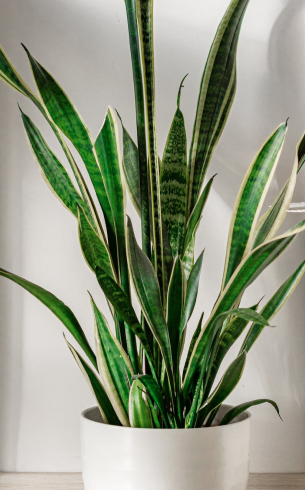
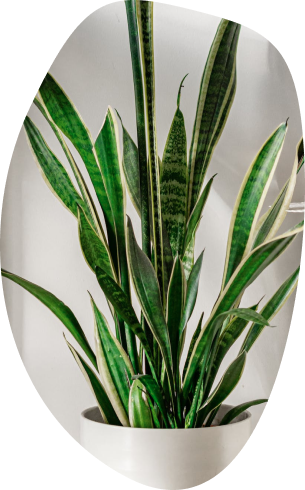
Finished hero-block

diff --git a/index.html b/index.html
@@ -135,12 +135,19 @@
                         <p class="hero__slogan">Вместе с&nbsp;нами растет жизнь</p>
                         <a href="#" class="btn btn--size-xl">Перейти в каталог</a>
                     </div>
+                
+                    <ul class="hero__gallery-list">
+                        <li class="hero__gallery-item hero__gallery-item--size-xl">
+                            <img class="hero__gallerty-image" src="images/dracaena(1).png" alt="Фотография комнатного растения" height="490" width="305">
+                        </li>
+                        <li class="hero__gallery-item">
+                            <img class="hero__gallerty-image" src="images/dracaena2.png" alt="Фотография комнатного растения" height="220" width="300">
+                        </li>
+                        <li class="hero__gallery-item">
+                            <img class="hero__gallerty-image" src="images/dracaena3.png" alt="Фотография комнатного растения" height="220" width="300">
+                        </li>
+                    </ul>
                 </div>
-                <ul class="hero__gallery-list">
-                    <li class="hero__gallery-item">
-                        <img class="hero__gallerty-image" src="images/dracaena(1).png" alt="Фотография комнатного растения" height="490" width="305">
-                    </li>
-                </ul>
             </div>
         </section>
     </main>

diff --git a/css/blocks/hero.css b/css/blocks/hero.css
@@ -1,0 +1,42 @@
+.hero {
+    display: flex;
+    align-items: center;
+    padding: 105px;
+    min-height: calc(100vh - 187px);
+    background-color: rgba(222, 236, 221, 0.8);
+}
+
+.hero__wrapper {
+    display: grid;
+    grid-template-columns: 1fr 640px;
+    gap: 55px;
+}
+
+.hero__text {
+    font-size: 34px;
+    line-height: 40px;
+    font-weight: 700;
+    letter-spacing: -0.05em;
+    color: #475009;
+    margin: 0 0 40px 0;
+}
+
+.hero__slogan {
+    font-size: 30px;
+    line-height: 34px;
+    margin: 0 0 50px 0;
+    color: #475009;
+}
+
+.hero__gallery-list {
+    list-style: none;
+    padding: 0;
+    margin: 0;
+    display: grid;
+    grid-template-columns: 305px 300px;
+    gap: 50px 50px;
+}
+
+.hero__gallery-item--size-xl {
+    grid-row: span 2;
+}

diff --git a/css/blocks/btn.css b/css/blocks/btn.css
@@ -1,0 +1,17 @@
+.btn {
+
+}
+
+.btn--size-xl {
+    display: block;
+    background-color: #502198;
+    color: #ffffff;
+    border-radius: 30px;
+    padding: 30px;
+    width: 420px;
+    text-align: center;
+    font-size: 24px;
+    line-height: 24px;
+    font-weight: 700;
+    text-transform: uppercase;
+}

diff --git a/css/style.css b/css/style.css
@@ -4,6 +4,7 @@
 @import "global/visually-hidden.css";
 @import "global/container.css";
 /* Blocks */
-
+@import "blocks/hero.css";
 @import "blocks/header.css";
 @import "blocks/main-nav.css";
+@import "blocks/btn.css";

diff --git a/css/blocks/header.css b/css/blocks/header.css
@@ -1,5 +1,6 @@
 .header {
     border-top: 15px solid #52A345;
+    padding: 15px 30px;
 }
 
 .header__top {

diff --git a/css/global/visually-hidden.css b/css/global/visually-hidden.css
@@ -1,0 +1,3 @@
+.visually-hidden {
+    display: none;
+}
